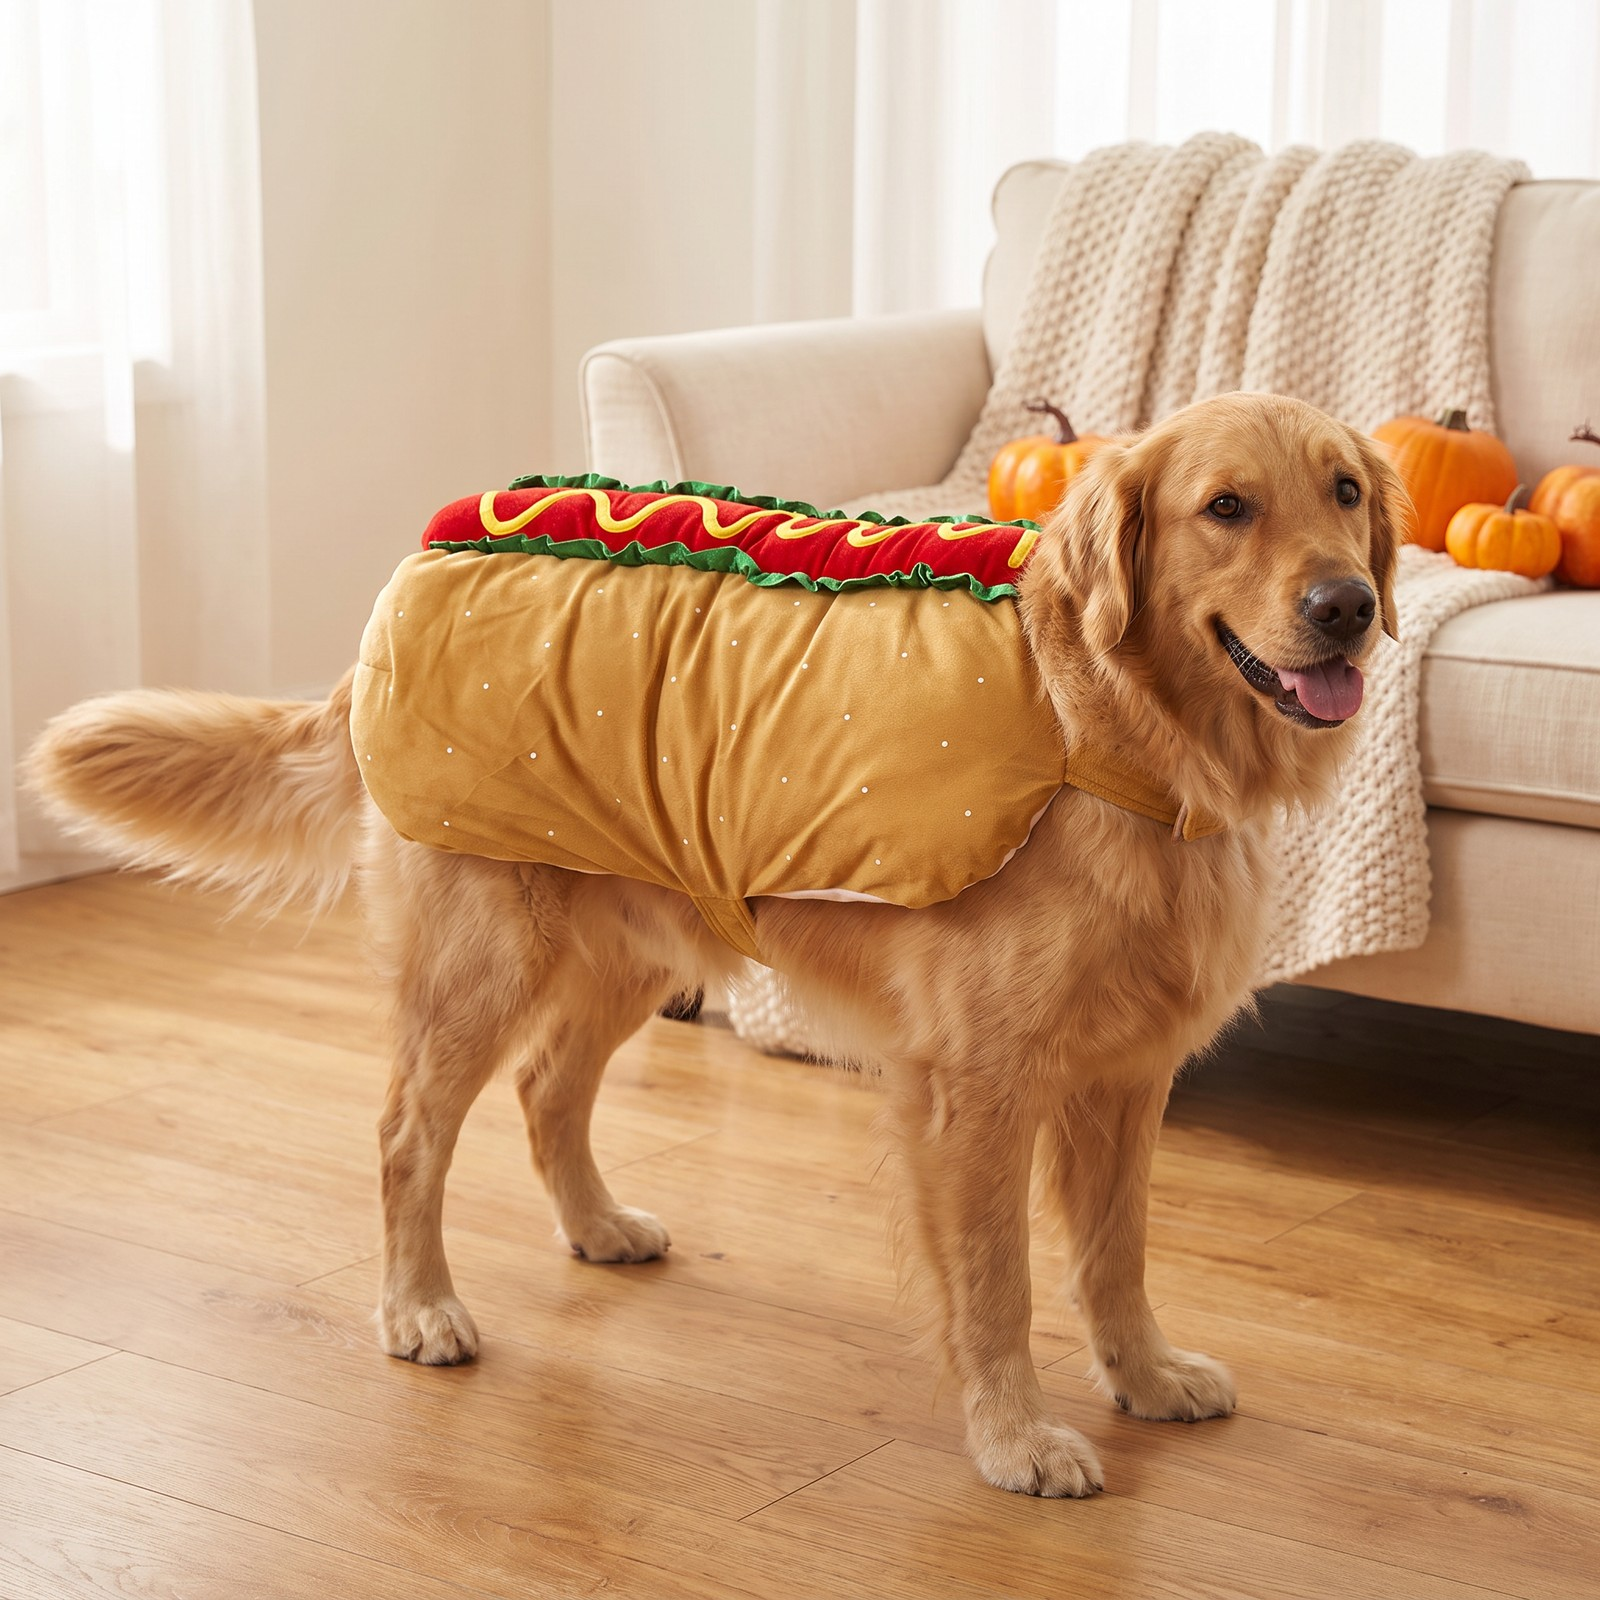
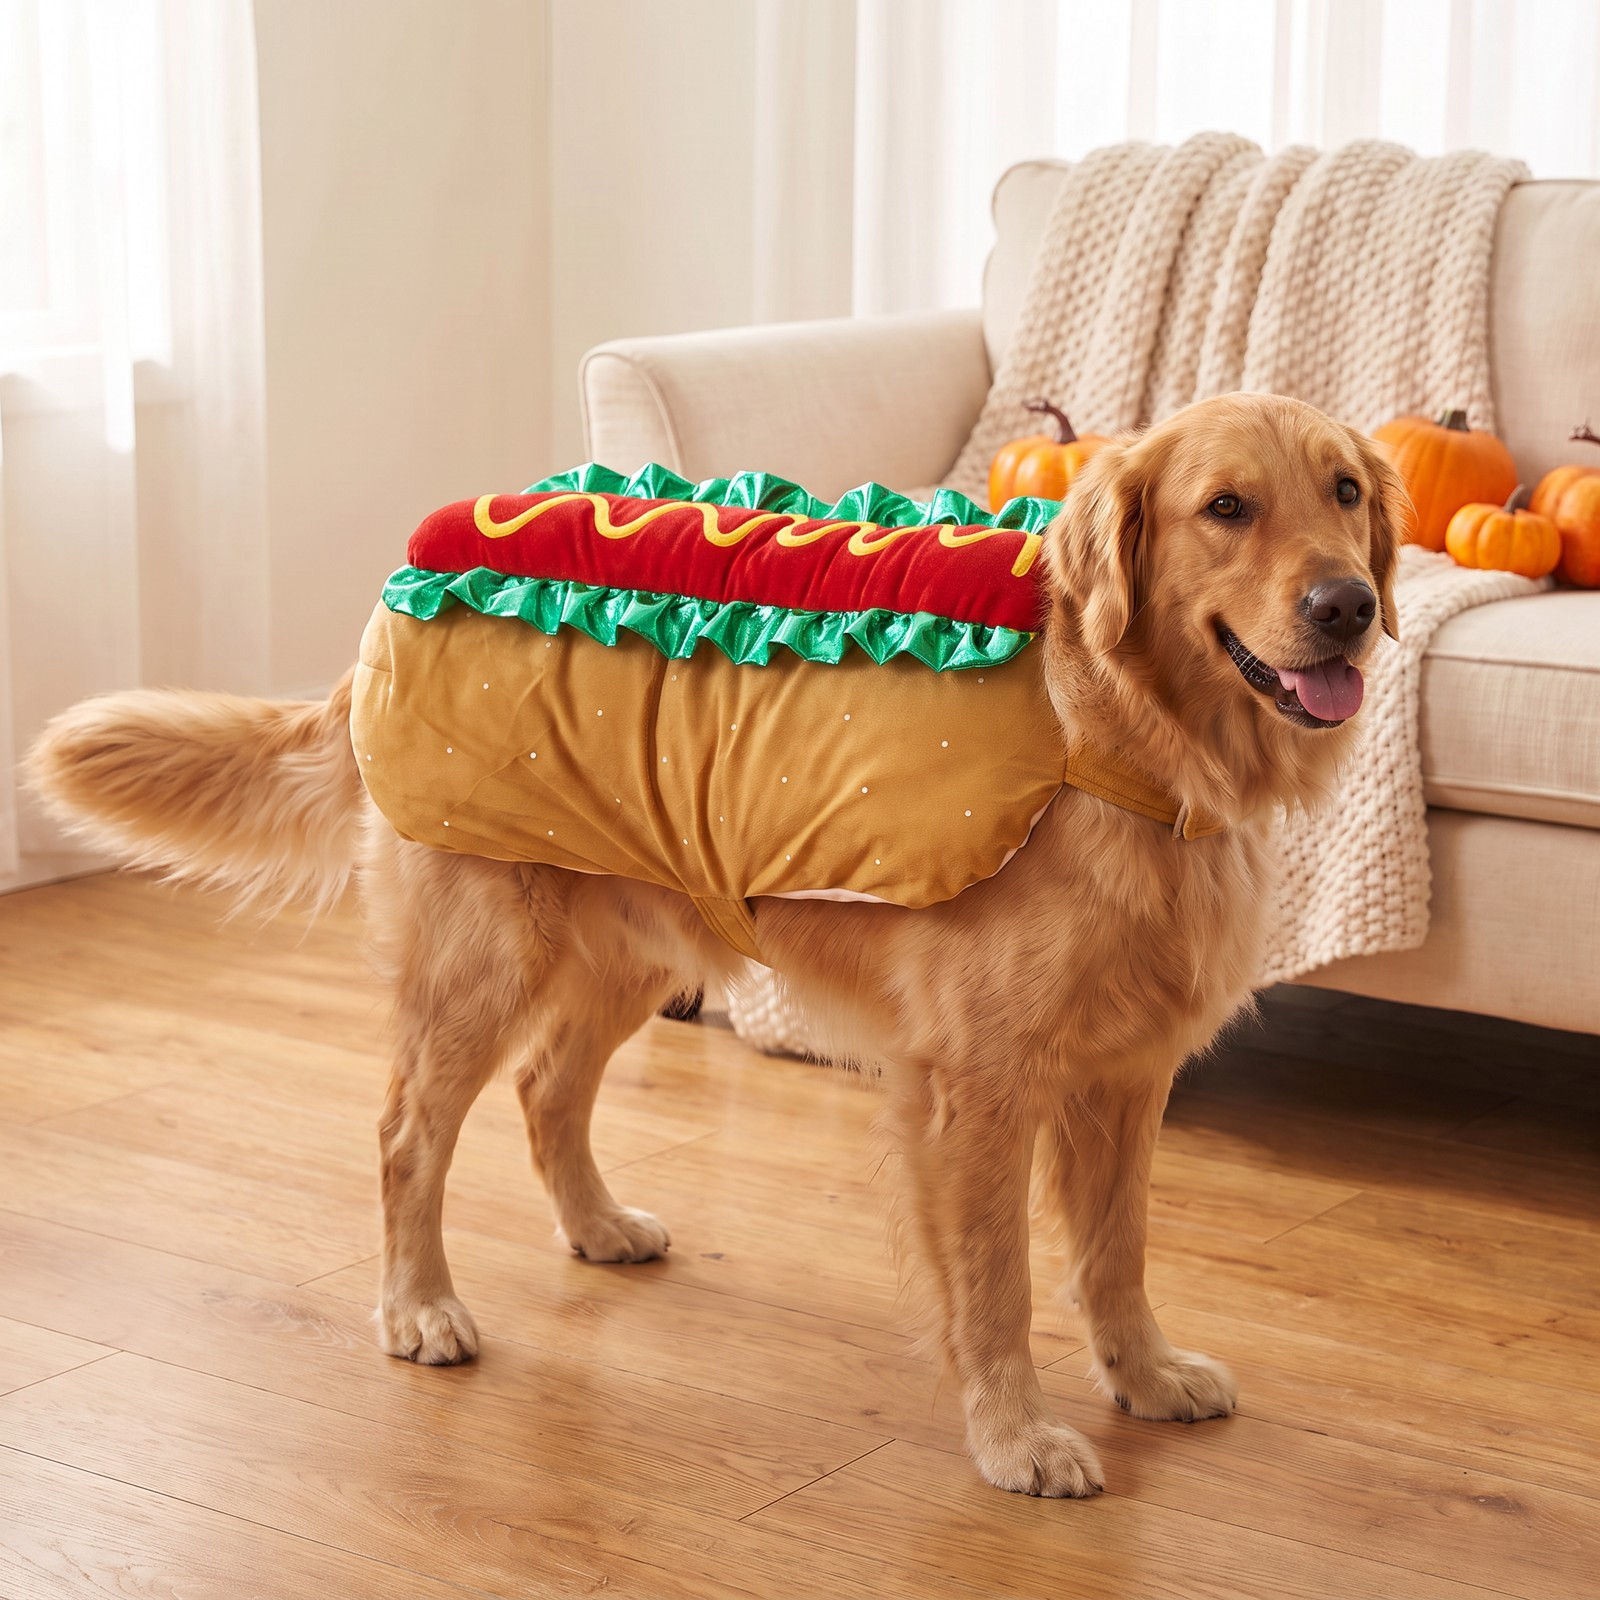
Hot Dog Costume review fixes, and push-before-publish as a rule
A 24-agent review of the live listing, each finding double-checked, confirmed: the size guide was silent about two chest ranges no size we sell covers (50 to 61 and 82 to 90 cm, which CJ 10 and 16 would have), and the comments wrongly called those sizes redundant; the structured-data description ran sentences together; the Golden Retriever photo's lettuce was matte olive instead of CJ's glossy foil; CLAUDE.md still told sessions to use sku[:11]. All fixed and re-verified on the storefront.

Also records the incident: the product went live before its hyphenated-SKU fix was pushed, and a scheduled run on the old code zeroed it within minutes. Stock restored; CLAUDE.md now says push before publish.

diff --git a/config/add_hot_dog_costume.py b/config/add_hot_dog_costume.py
@@ -26,8 +26,12 @@ text, repeated on CJ's product page):
 
   * Size6 exists as a SKU but is on no chart anywhere, so it is not sold. The
     owner chose "XS only if its measurements can be confirmed"; they cannot.
-  * CJ 10 and 16 land between bands already served and are retired, as the
-    scale requires, so each letter is one obvious choice.
+  * CJ 10 and 16 are not sold because the scale allows one supplier size per
+    letter. They are NOT redundant: they are the only sizes for chests of 50
+    to 61 cm and 82 to 90 cm, which S/M and L/XL leave open, so the size
+    guide names both gaps and says to size up (corrected after review).
+  * M is CJ 12 on band coverage (61 to 70 of M's 55 to 70) rather than CJ 10
+    (55 to 60 only); the midpoints are a near tie.
 
 MONEY. Live LuWei Ordinary US quotes, 2026-09-14, 20% duty:
 
@@ -92,18 +96,23 @@ VARIANTS = [
 ]
 OPTIONS = [('Size', ['S', 'M', 'L', 'XL'])]
 
+# NEWLINES BETWEEN BLOCKS ARE LOAD-BEARING. Shopify's structured data strips
+# the tags without adding a space, so '</p><p>' became "included.A padded" in
+# the JSON-LD description that search and shopping snippets read. The Big Dog
+# Costume's body has a newline between every block, which is why it reads
+# cleanly.
 BODY = (
- '<p><strong>A hot dog, with the dog included.</strong></p>'
+ '<p><strong>A hot dog, with the dog included.</strong></p>\n'
  '<p>A padded bun wraps around your dog’s middle, with a plump sausage, a '
  'squiggle of mustard and a ruffle of lettuce running along the back. It '
  'fastens with hook and loop tape, so it goes on in seconds and there is '
- 'nothing to pull over the head.</p>'
- '<ul>'
- '<li>Sizes S to XL, from a Shih Tzu to a Great Dane</li>'
+ 'nothing to pull over the head.</p>\n'
+ '<ul>\n'
+ '<li>Sizes S to XL, from a Shih Tzu to a Great Dane</li>\n'
  '<li>Soft padded bun with sesame dots, a plush sausage with mustard, and '
- 'green lettuce trim</li>'
- '<li>Hook and loop fastening, and the head, legs and tail stay free</li>'
- '</ul>')
+ 'green lettuce trim</li>\n'
+ '<li>Hook and loop fastening, and the head, legs and tail stay free</li>\n'
+ '</ul>\n')
 
 SEO_TITLE = 'Hot Dog Costume for Dogs, Sizes S to XL | Wagvive'
 SEO_DESC = ('A padded hot dog bun costume for dogs, with a plush sausage, '

diff --git a/config/size_scale.py b/config/size_scale.py
@@ -186,8 +186,19 @@ MAP = {
  #   16: 80-95 / 48   18: 90-102 / 55   (cm)
  # Size6 exists as a SKU but appears on NO chart, so it is not sold (owner
  # decision: XS only if its measurements could be confirmed; they could not).
- # 10 and 16 sit between bands already served and are retired, as the scale
- # requires. Identity `keep`, for the same reason as the vest above.
+ #
+ # 10 AND 16 ARE NOT SOLD, BUT NOT BECAUSE THEY DUPLICATE A BAND. The scale
+ # allows one supplier size per letter, and four letters (S to XL) span a
+ # chart CJ splits six ways. 10 (50 to 60) and 16 (80 to 95) are the ONLY
+ # sizes covering chests of 50 to 61 cm and 82 to 90 cm, which our S/M and
+ # L/XL leave open. The size guide names both gaps and says to size up. The
+ # first version of this comment said they "sit between bands already
+ # served"; a review on 2026-09-14 caught that it was false.
+ #
+ # M IS CJ 12 ON BAND COVERAGE, NOT THE MIDPOINT RULE ABOVE. Midpoints are a
+ # near tie (12's 70.5 is 8.0 cm from M's 62.5, 10's 55 is 7.5 cm), so
+ # coverage decides: 12 serves 61 to 70 of M's 55 to 70, 10 only 55 to 60.
+ # Identity `keep`, for the same reason as the vest above.
  'wagvive-hot-dog-costume': dict(
      basis='costume bust cm from the maker chart in the CJ description',
      keep={'S': 'S', 'M': 'M', 'L': 'L', 'XL': 'XL'},
@@ -196,7 +207,9 @@ MAP = {
      supplier_retired=['Size6', '10', '16'],
      note='S to XL, no XS: CJ publishes no measurements for its smallest '
           'size. The maker gives M a 61 to 80 cm bust and L 70 to 82 cm, an '
-          'overlap the hook and loop fastening absorbs; weight decides.'),
+          'overlap the hook and loop fastening absorbs; weight decides. '
+          'Chests of 50 to 61 and 82 to 90 cm fall between sizes we sell; '
+          'the guide says so and says to size up.'),
 }
 
 # The Sofa & Furniture Cover is deliberately NOT on this scale. It is sized to

diff --git a/config/apply_size_guides.py b/config/apply_size_guides.py
@@ -136,9 +136,13 @@ NOTE = {
  'wagvive-hot-dog-costume':
     'The bun sits along your dog’s back and fastens with hook and loop tape, '
     'so it adjusts, which is why the maker’s chest ranges for M and L '
-    'overlap. If your dog fits both, go by weight. It starts at S: the maker '
-    'publishes no measurements for a smaller size, so we do not sell one '
-    'rather than guess. For a toy breed see the Pumpkin Hoodie.',
+    'overlap. If your dog fits both, go by weight. No size we sell is '
+    'measured for a chest of 19.7 to 24 in (50 to 61 cm) or 32.3 to 35.4 in '
+    '(82 to 90 cm). If your dog measures in one of those ranges, choose the '
+    'size above: it will sit a little loose, and the tape still fastens. It '
+    'starts at S: the maker publishes no measurements for a smaller size, so '
+    'we do not sell one rather than guess. For a toy breed see the Pumpkin '
+    'Hoodie.',
  'wagvive-calming-hooded-anxiety-vest':
     'A calming vest has to be SNUG to do anything, so this is the one product '
     'in the store where measuring is worth the two minutes. It runs XS to L '

diff --git a/config/audit_cj_variants.py b/config/audit_cj_variants.py
@@ -6,7 +6,8 @@ Feeds the imagery/sizing audit: for each SPU it records the full variant list
 (so missing sizes show up), each variant's key, dimensions and weight, and the
 supplier description HTML, which is where CJ hides its size charts.
 
-Query CJ by SPU (`sku[:11]`), NOT by variant SKU — the variant SKU returns
+Query CJ by SPU (`cj_sku.spu(sku)`, which is `sku[:11]` only for
+unhyphenated SKUs), NOT by variant SKU — the variant SKU returns
 "Product not found".
 
 Usage:

diff --git a/docs/HANDOFF.md b/docs/HANDOFF.md
@@ -42,9 +42,29 @@
   and all the China-shipped stock TikTok Shop US forbids. The new costume was
   deliberately NOT published there (owner: hold on TikTok). Decide whether
   that channel should carry anything before TikTok work resumes.
-* **Scheduled job:** GitHub did not run the 18:17 UTC slot at all (last run
-  12:57 UTC). A scheduling delay, not a failure; the retry fix from part 1 is
-  still waiting for its first real run.
+* **INCIDENT, my ordering: the costume went live BEFORE the hyphen fix was
+  pushed.** Scheduled run 34901224919 started 21:53 UTC, 4.5 minutes after
+  launch, on the old code (97c8d9e). Its `sku[:11]` made the SPU
+  "CJJJCWGD000", CJ answered "product not found", the guard filed that as a
+  DELISTING, zeroed all four sizes and failed the job (owner got a failure
+  email). Fixed: pushed in 6fbb68b, stock restored from CJ at Shop location
+  (11,220 / 11,135 / 12,691 / 12,783), the FIXED guard re-run report-only at
+  100% coverage (223/223) with every variant shippable, storefront buyable
+  again. **Lesson: push code that the scheduled job needs BEFORE publishing
+  anything that depends on it.** The job runs on origin/main, not on disk.
+* **Review (24-agent, each finding double-checked) fixes applied:** the size
+  guide now names the two chest ranges no size we sell covers (50 to 61 and
+  82 to 90 cm, which CJ 10 and 16 would have) and says to size up; the size
+  mapping comments no longer claim 10/16 were redundant; description blocks
+  newline-separated so the structured data no longer reads "included.A
+  padded"; CLAUDE.md's `sku[:11]` rule rewritten to `cj_sku.spu`. Still
+  site-wide and older than this: every product's delivery block joins as
+  "business days.We ship" in structured data (DELIVERY + DELIVERY_NOTE with
+  no separator); `apply_delivery_promise.py` compares without whitespace so
+  a fix there needs a forced rewrite.
+* **Scheduled job:** GitHub skipped the 18:17 UTC slot entirely and ran the
+  next one at 21:53, late. The retry fix from part 1 has still not had a
+  clean run to prove it; check the next one.
 
 ## 2026-09-14: second Halloween sweep, six products recommended (NOT yet added)
 

diff --git a/CLAUDE.md b/CLAUDE.md
@@ -110,7 +110,12 @@ store-level Not Sync is the real guarantee.
 **Duplicate-source check:** before creating any product, verify the CJ SPU is
 not already used by an existing product — a duplicate slipped through once
 because the audit compared titles, not source SKUs. The margin/catalog audits
-now must compare `sku[:11]` across the catalogue.
+now must compare the SPU, `cj_sku.spu(sku)`, across the catalogue. **Not
+`sku[:11]`:** that rule said `[:11]` until 2026-09-14, when the Hot Dog Costume
+arrived with a 13 character SPU and hyphenated variant SKUs
+(`CJJJCWGD00035-8`). `[:11]` made it "CJJJCWGD000", CJ answered "product not
+found", the old shipping guard filed that as a delisting, and a scheduled run
+took the new product off sale within minutes of launch.
 
 Rules:
 - Stock lives at `Shop location` only. `config/fix_locations.py --apply` strips
@@ -329,6 +334,13 @@ visible is an accepted, deliberate trade for unlimited Actions minutes.
 Verify against the live system, not the tool's return value: re-fetch the object,
 load the storefront, check the rendered HTML. Several "successful" writes in this
 project's history did nothing.
+
+**Push before you publish.** The 6-hourly job runs the code on `origin/main`,
+not the working copy. If a new product needs a code change to be read
+correctly, commit and push that change BEFORE the product goes live. On
+2026-09-14 the Hot Dog Costume was published with its hyphenated-SKU fix still
+uncommitted; a scheduled run started 4.5 minutes later on the old code, filed
+the product as delisted and took all four sizes off sale.
 
 For a variant-level write (price, inventory), re-fetch the SPECIFIC variant by
 ID (`variants/{id}.json`), not the product's embedded variant list
